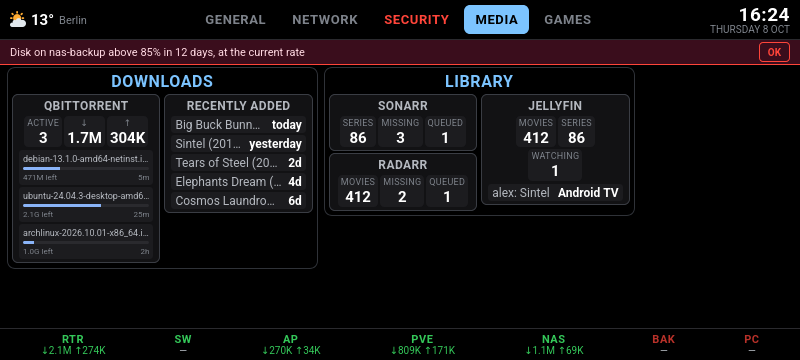
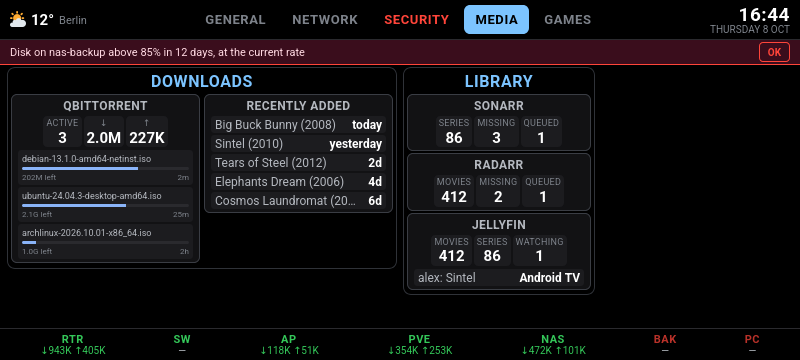
Spread pages with few groups over the whole width; new demo screenshots

diff --git a/static/app.js b/static/app.js
@@ -311,56 +311,68 @@ function layout() {
   const host = $("#content");
   if (!pageGroups.length) return;
   const cs = getComputedStyle(host);
-  const cols = parseInt(cs.getPropertyValue("--cols"), 10) || 5;
+  const maxCols = parseInt(cs.getPropertyValue("--cols"), 10) || 5;
   const gap = parseFloat(cs.columnGap) || 6;
   const W = host.clientWidth - parseFloat(cs.paddingLeft) - parseFloat(cs.paddingRight);
   const H = host.clientHeight - parseFloat(cs.paddingTop) - parseFloat(cs.paddingBottom);
-  const colW = (W - gap * (cols - 1)) / cols;
-  const width = (span) => span * colW + (span - 1) * gap;   // on screen, zoom included
 
-  const plan = (zoom) => {
-    host.textContent = "";
-    const probe = el("div", "stack");
-    probe.style.zoom = zoom;
-    probe.style.width = width(1) / zoom + "px";
-    host.appendChild(probe);
-    for (const g of pageGroups) { g.classList.remove("wide"); probe.appendChild(g); }
-    const items = pageGroups.map((g) => ({ g, h: g.getBoundingClientRect().height, span: 1 }));
-    const tall = items.filter((it) => it.h > H);
-    if (tall.length) {
-      probe.style.width = width(2) / zoom + "px";
-      for (const it of tall) { it.g.classList.add("wide"); it.span = 2; }
-      for (const it of tall) it.h = it.g.getBoundingClientRect().height;
-    }
-    const gapOn = gap * zoom;   // the gap inside a zoomed column shrinks with it
-    const pack = (target) => {
-      const stacks = [];
-      let cur = null;
-      for (const it of items) {
-        if (it.span === 2) { stacks.push({ items: [it], span: 2, h: it.h }); cur = null; continue; }
-        if (cur && cur.h + gapOn + it.h <= target) { cur.items.push(it); cur.h += gapOn + it.h; continue; }
-        cur = { items: [it], span: 1, h: it.h };
-        stacks.push(cur);
+  const solve = (cols) => {
+    const colW = (W - gap * (cols - 1)) / cols;
+    const width = (span) => span * colW + (span - 1) * gap;   // on screen, zoom included
+
+    const plan = (zoom) => {
+      host.textContent = "";
+      const probe = el("div", "stack");
+      probe.style.zoom = zoom;
+      probe.style.width = width(1) / zoom + "px";
+      host.appendChild(probe);
+      for (const g of pageGroups) { g.classList.remove("wide"); probe.appendChild(g); }
+      const items = pageGroups.map((g) => ({ g, h: g.getBoundingClientRect().height, span: 1 }));
+      const tall = items.filter((it) => it.h > H);
+      if (tall.length) {
+        probe.style.width = width(2) / zoom + "px";
+        for (const it of tall) { it.g.classList.add("wide"); it.span = 2; }
+        for (const it of tall) it.h = it.g.getBoundingClientRect().height;
       }
-      return stacks;
+      const gapOn = gap * zoom;   // the gap inside a zoomed column shrinks with it
+      const pack = (target) => {
+        const stacks = [];
+        let cur = null;
+        for (const it of items) {
+          if (it.span === 2) { stacks.push({ items: [it], span: 2, h: it.h }); cur = null; continue; }
+          if (cur && cur.h + gapOn + it.h <= target) { cur.items.push(it); cur.h += gapOn + it.h; continue; }
+          cur = { items: [it], span: 1, h: it.h };
+          stacks.push(cur);
+        }
+        return stacks;
+      };
+      const used = (stacks) => stacks.reduce((n, s) => n + s.span, 0);
+      const narrow = items.filter((it) => it.span === 1);
+      let target = Math.max(0, ...narrow.map((it) => it.h), narrow.reduce((n, it) => n + it.h, 0) / cols);
+      let stacks = pack(target);
+      while (used(stacks) > cols && target < H) { target = Math.min(H, target + 8); stacks = pack(target); }
+      const fits = used(stacks) <= cols && stacks.every((s) => s.h <= H + 1);
+      return { stacks, fits, zoom, used: used(stacks) };
     };
-    const used = (stacks) => stacks.reduce((n, s) => n + s.span, 0);
-    const narrow = items.filter((it) => it.span === 1);
-    let target = Math.max(0, ...narrow.map((it) => it.h), narrow.reduce((n, it) => n + it.h, 0) / cols);
-    let stacks = pack(target);
-    while (used(stacks) > cols && target < H) { target = Math.min(H, target + 8); stacks = pack(target); }
-    const fits = used(stacks) <= cols && stacks.every((s) => s.h <= H + 1);
-    return { stacks, fits, zoom, used: used(stacks) };
+
+    let best = null;
+    for (const zoom of [1, 0.92, 0.85, 0.78, 0.72, 0.66, 0.6]) {
+      best = plan(zoom);
+      if (best.fits) break;
+    }
+    return { ...best, cols, width };
   };
 
-  let best = null;
-  for (const zoom of [1, 0.92, 0.85, 0.78, 0.72, 0.66, 0.6]) {
-    best = plan(zoom);
-    if (best.fits) break;
+  // A page with few groups would fill only the left part of the screen: then it is laid out again
+  // with as many columns as it really uses, each one wider, so the page spans the whole width.
+  let best = solve(maxCols);
+  if (best.fits && best.zoom === 1 && best.used < maxCols) {
+    const wider = solve(best.used);
+    if (wider.fits) best = wider;
   }
 
   host.textContent = "";
-  const { stacks, zoom } = best;
+  const { stacks, zoom, cols, width } = best;
   const inCols = best.used <= cols;
   for (const s of stacks) {
     const col = el("div", "stack");

diff --git a/CHANGELOG.md b/CHANGELOG.md
@@ -6,6 +6,11 @@ still change in a minor version; such changes are listed under **Changed** with 
 
 ## [Unreleased]
 
+### Changed
+- A page whose groups need fewer columns than the screen has now spreads them over the whole
+  width (wider columns) instead of leaving the right side empty.
+- New demo screenshots with the current layout.
+
 ## [0.1.3] - 2026-10-08
 
 ### Changed
